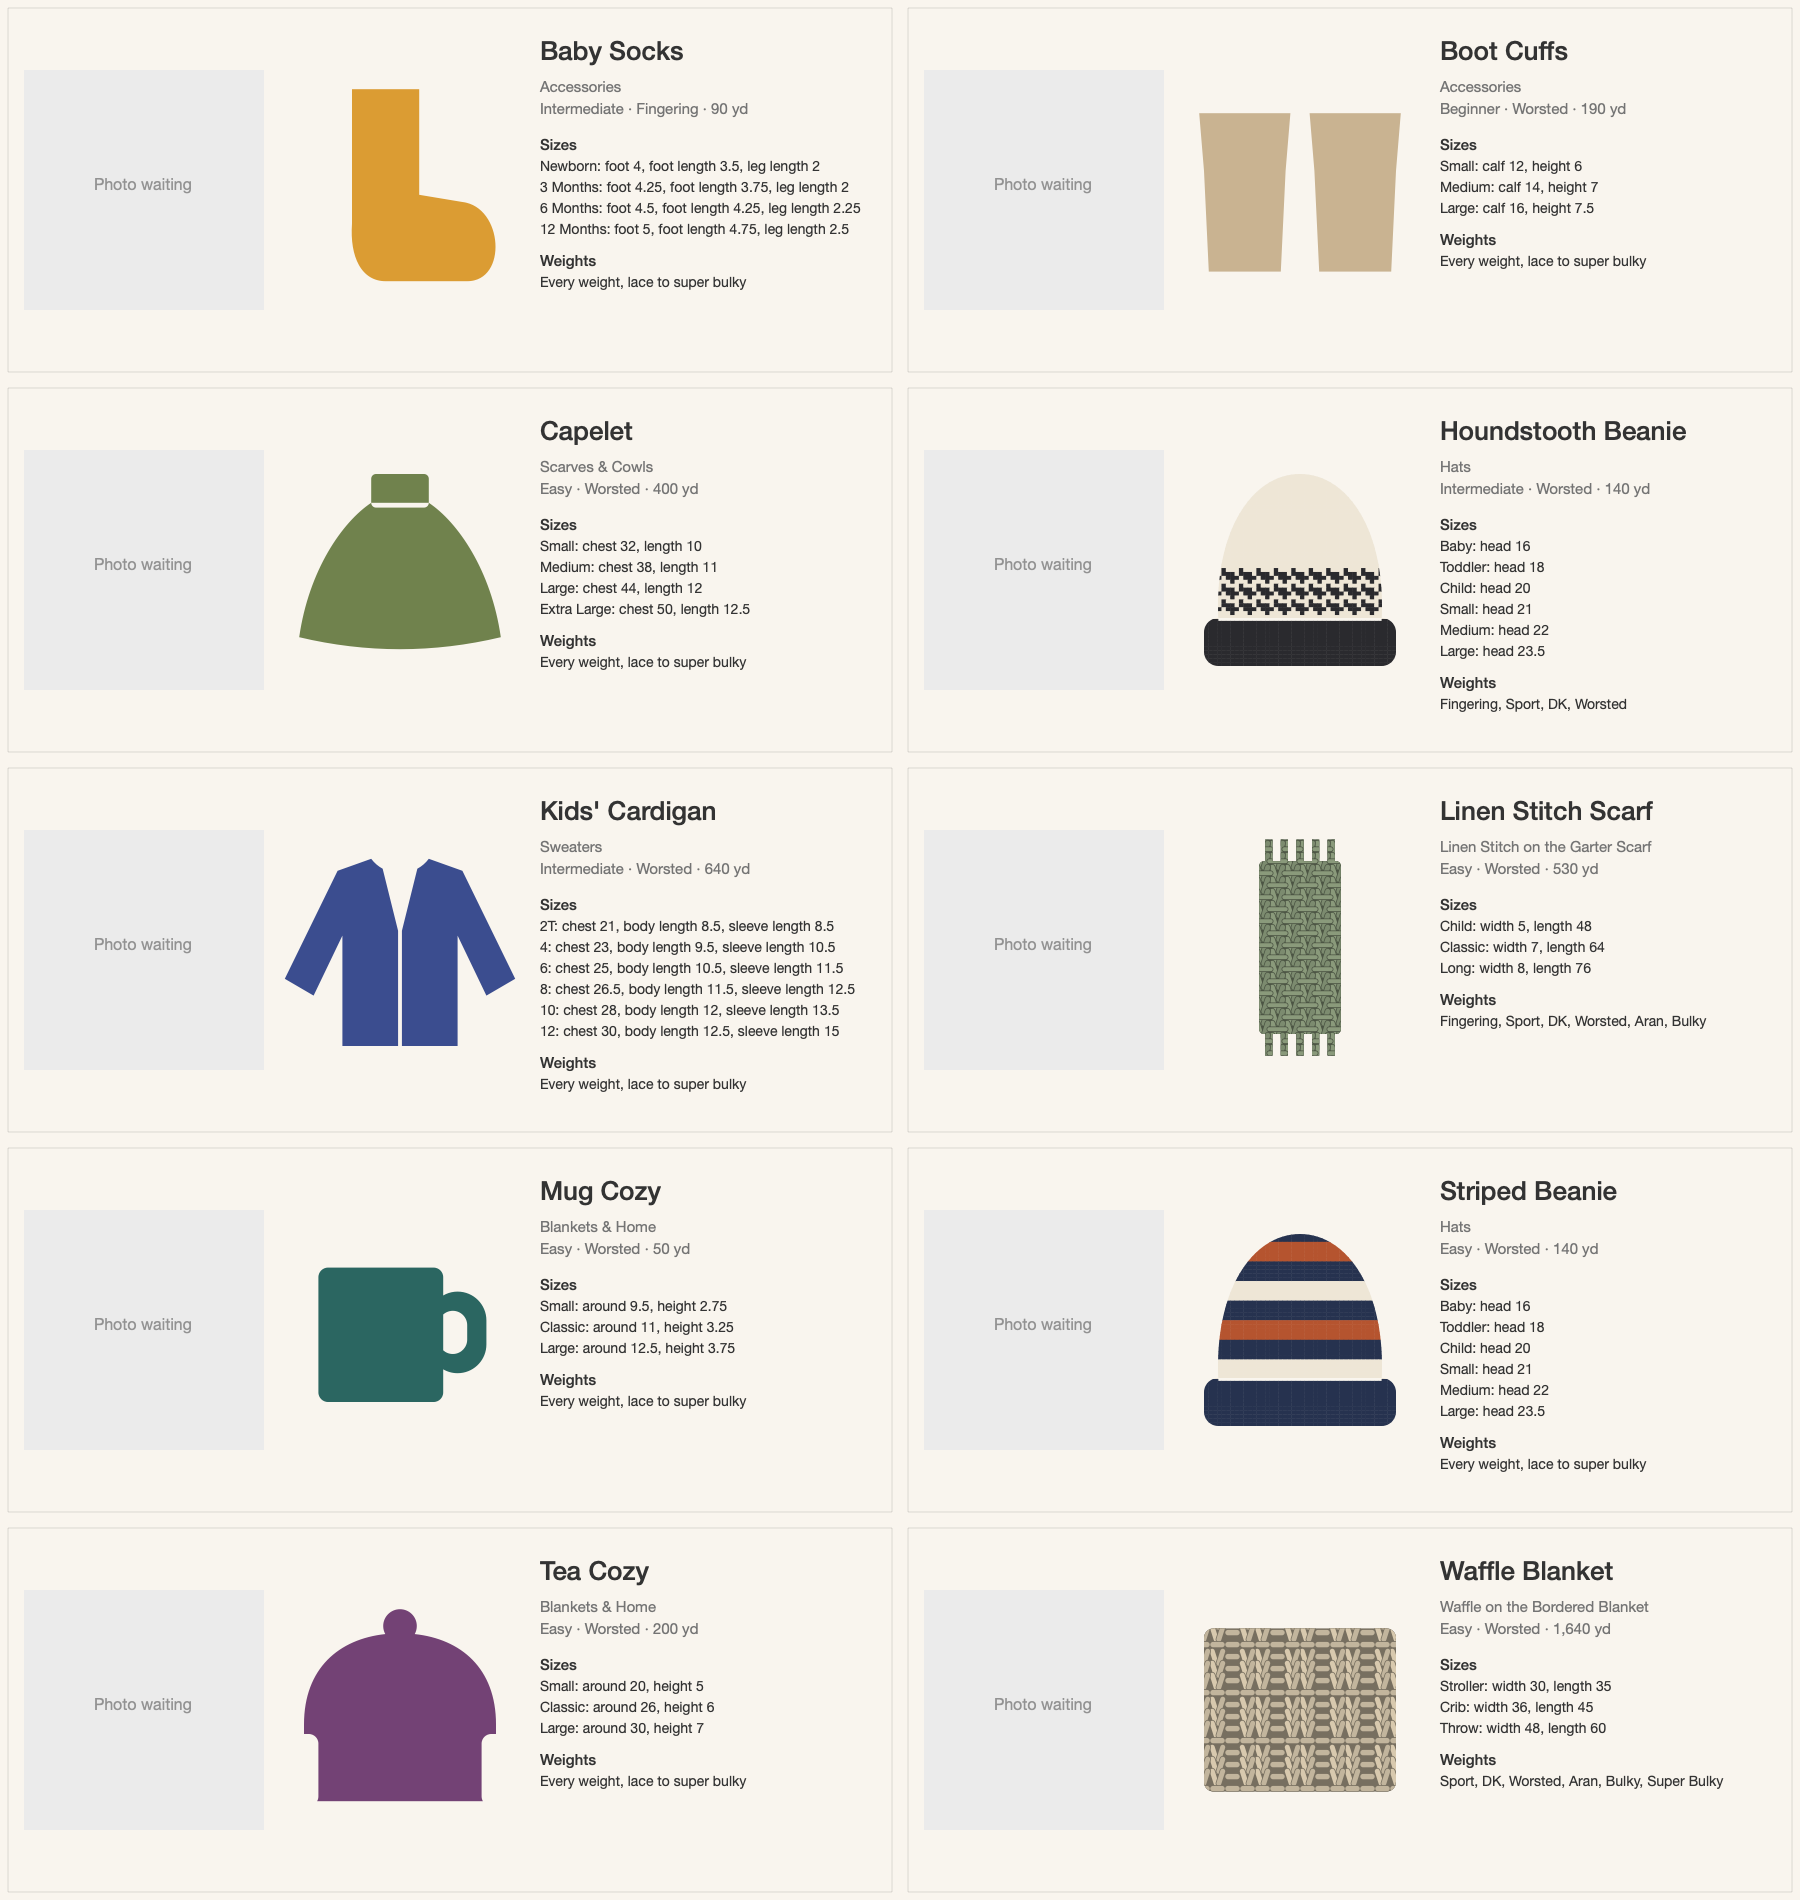
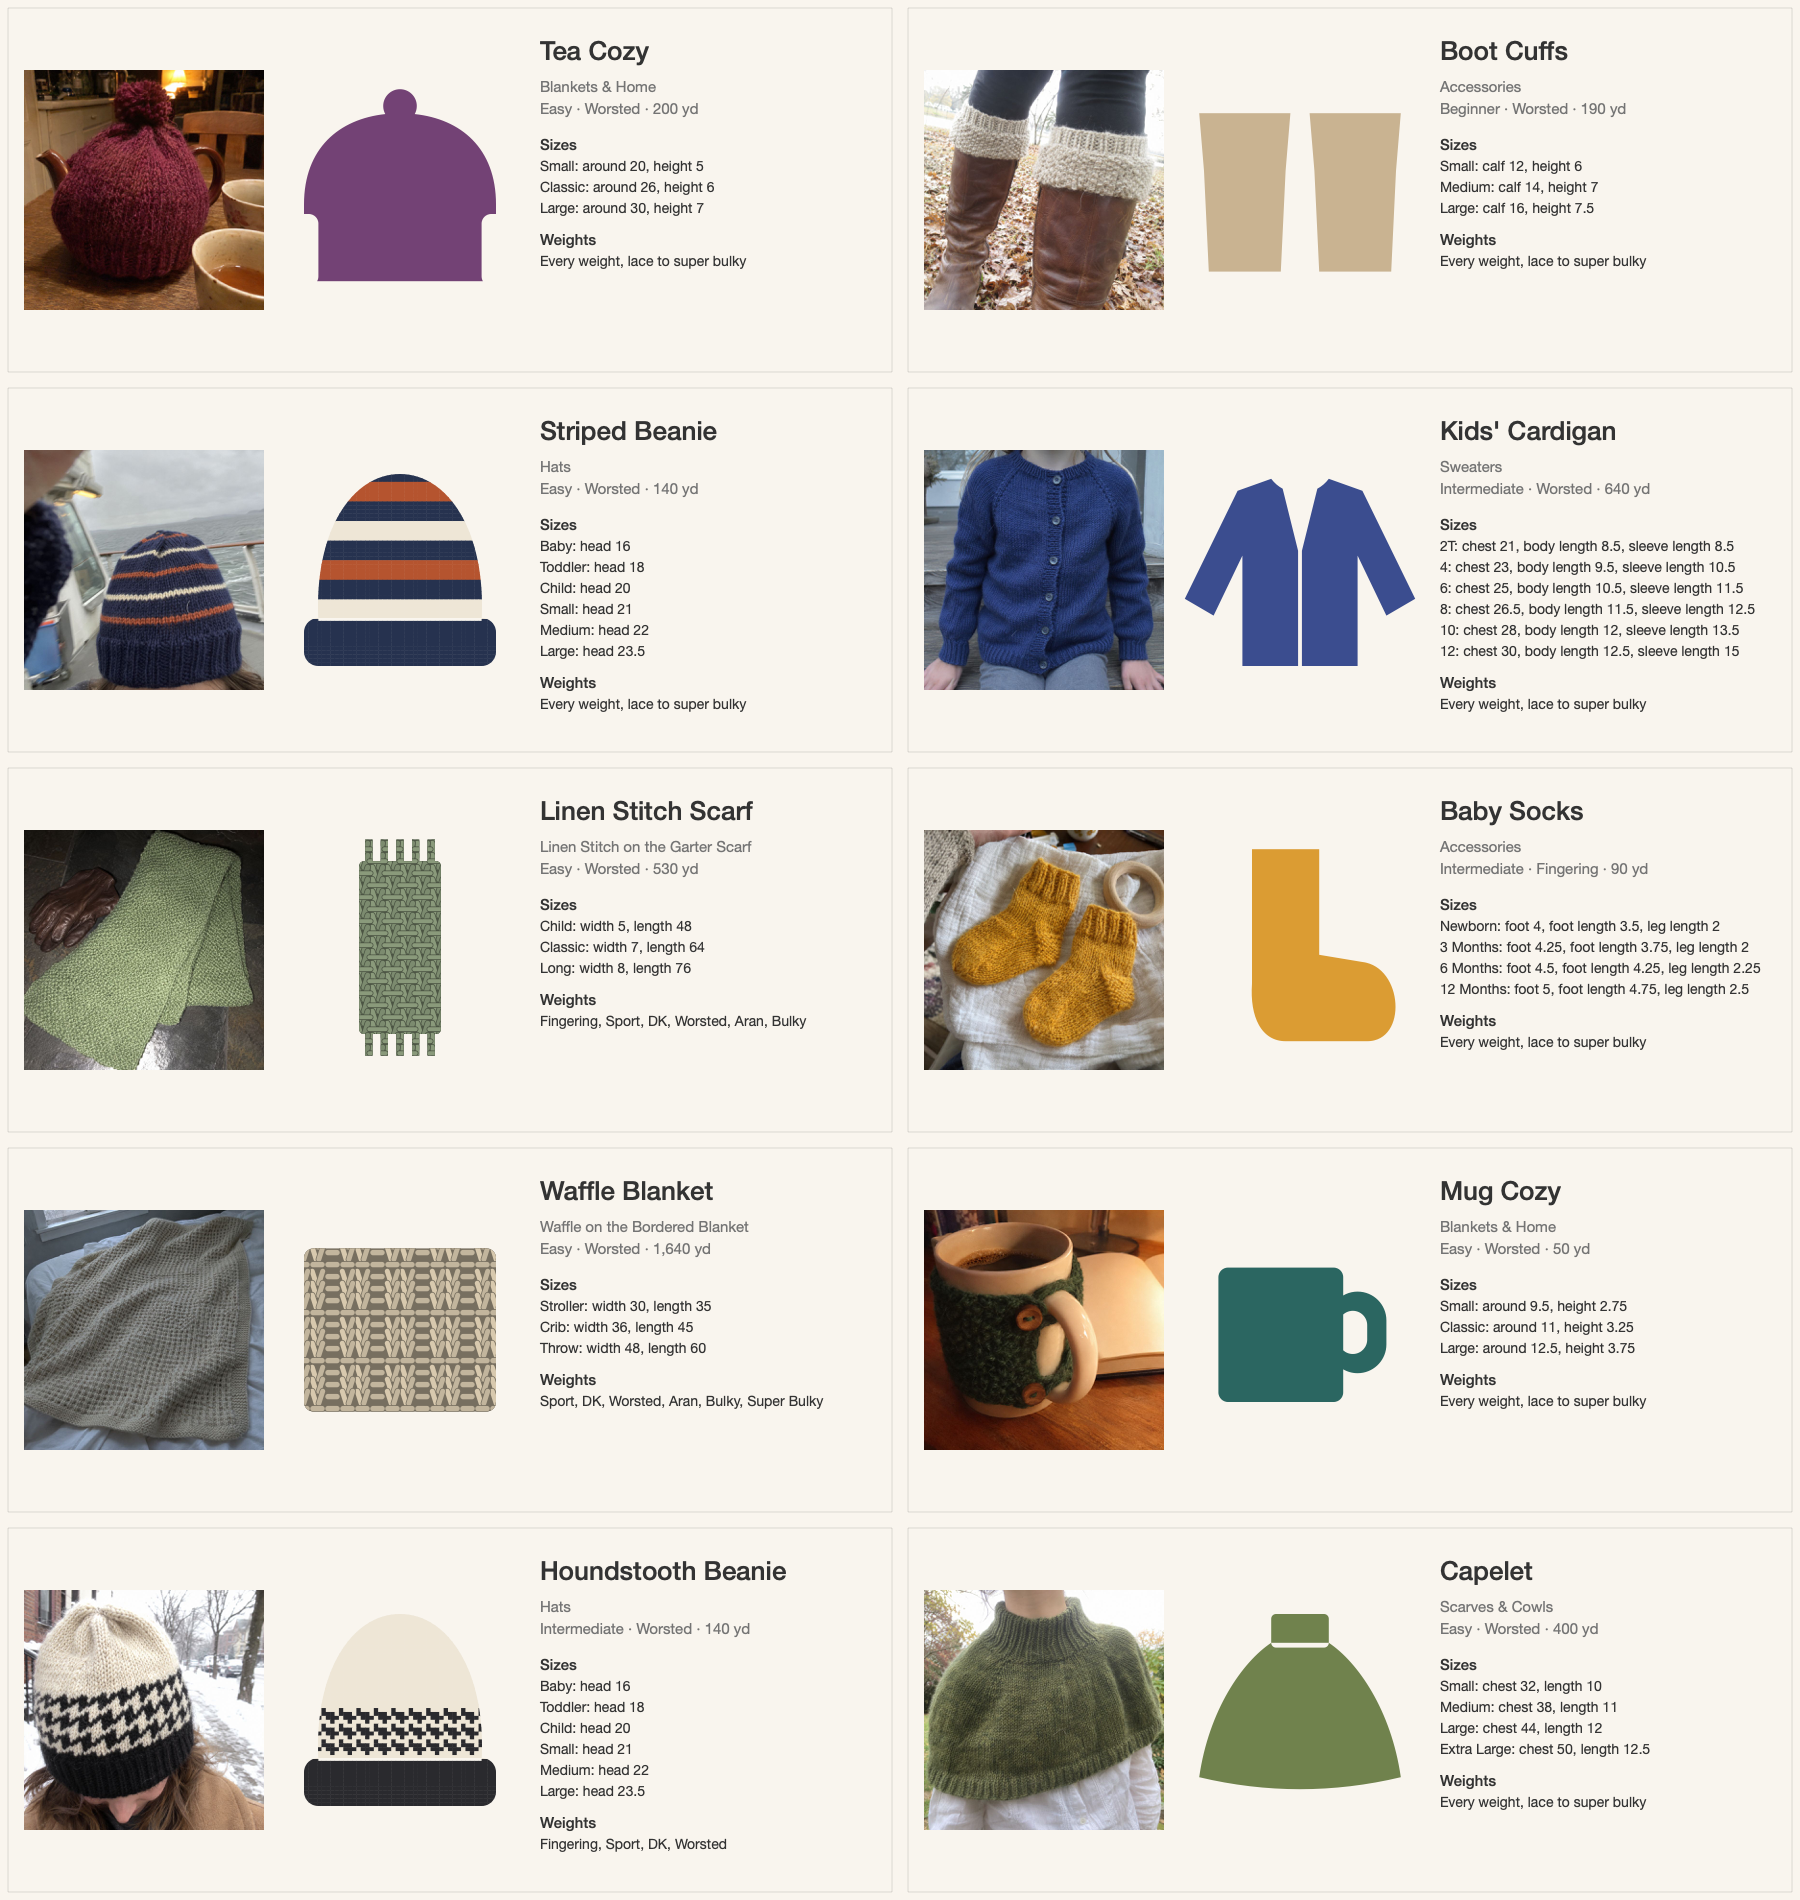
feat(photos): sample photos for batch 4

diff --git a/RavelTests/PatternTests.swift b/RavelTests/PatternTests.swift
@@ -19,7 +19,7 @@ final class PatternTests: XCTestCase {
 
     /// Every built-in design page has its knitted sample photo in the app.
     /// Designs whose photo is not made yet. Each is drawn until its photo is on the site. Empty at a release.
-    static let awaitingPhoto: Set<String> = ["teaCozy", "bootCuffs", "striped-beanie", "kidsCardigan", "linen-stitch-scarf", "babySocks", "waffle-blanket", "mugCozy", "houndstooth-beanie", "capelet", "double-moss-cowl", "placemat", "miniStocking", "rope-cable-mitts", "raglanTee", "honeycomb-beanie", "waffle-washcloth", "feather-and-fan-wrap", "pouch", "color-block-beanie", "twisted-rib-scarf", "bottleCover", "bandanaKerchief", "snowflake-cowl", "broken-rib-beanie", "rope-cable-blanket", "turtleneck", "linen-stitch-washcloth", "star-beanie", "waffle-cowl", "shrug", "gloves", "yokeSweater", "tankTop", "croppedCardigan", "babyPullover", "bucketHat", "toteBag", "babyCocoon", "tubeSocks", "knitBasket", "kidsVest", "tableRunner", "ruana", "scrunchie", "floorPouf", "babyBib", "bathMat", "laptopSleeve", "bauble", "buttonNeckWarmer", "draftStopper", "cowlHood", "bunting", "pixieHat", "polka-dot-beanie", "zigzag-beanie", "wave-beanie", "mushroom-beanie", "strawberry-beanie", "striped-cowl", "heart-cowl", "houndstooth-cowl", "striped-blanket", "color-block-scarf", "striped-mitts", "nordic-band-beanie", "fair-isle-band-cowl", "flower-beanie", "reindeer-beanie", "babyMittens"]
+    static let awaitingPhoto: Set<String> = ["double-moss-cowl", "placemat", "miniStocking", "rope-cable-mitts", "raglanTee", "honeycomb-beanie", "waffle-washcloth", "feather-and-fan-wrap", "pouch", "color-block-beanie", "twisted-rib-scarf", "bottleCover", "bandanaKerchief", "snowflake-cowl", "broken-rib-beanie", "rope-cable-blanket", "turtleneck", "linen-stitch-washcloth", "star-beanie", "waffle-cowl", "shrug", "gloves", "yokeSweater", "tankTop", "croppedCardigan", "babyPullover", "bucketHat", "toteBag", "babyCocoon", "tubeSocks", "knitBasket", "kidsVest", "tableRunner", "ruana", "scrunchie", "floorPouf", "babyBib", "bathMat", "laptopSleeve", "bauble", "buttonNeckWarmer", "draftStopper", "cowlHood", "bunting", "pixieHat", "polka-dot-beanie", "zigzag-beanie", "wave-beanie", "mushroom-beanie", "strawberry-beanie", "striped-cowl", "heart-cowl", "houndstooth-cowl", "striped-blanket", "color-block-scarf", "striped-mitts", "nordic-band-beanie", "fair-isle-band-cowl", "flower-beanie", "reindeer-beanie", "babyMittens"]
 
     private static let root = URL(fileURLWithPath: #filePath).deletingLastPathComponent().deletingLastPathComponent()
 

diff --git a/project-docs/catalog/roadmap.md b/project-docs/catalog/roadmap.md
@@ -48,7 +48,7 @@ shape or edging, or for an AI tell; three failed tries means no photo. New photo
 (`docs/photos/<id>.jpg`, committed on this branch only) and cached on the phone, so the app does not carry
 them. A design whose photo is not accepted stays in `awaitingPhoto` in `PatternTests` and shows its drawing.
 
-Accepted on my read, waiting for the peer's: batches 1 and 2 (2026-11-21).
+Accepted on my read, waiting for the peer's: batches 1, 2 and 4, and nine of batch 3 (Baby Mittens shows a stray hat and is being retried) (2026-11-21).
 
 ## The knitter's read (2026-11-21)
 
